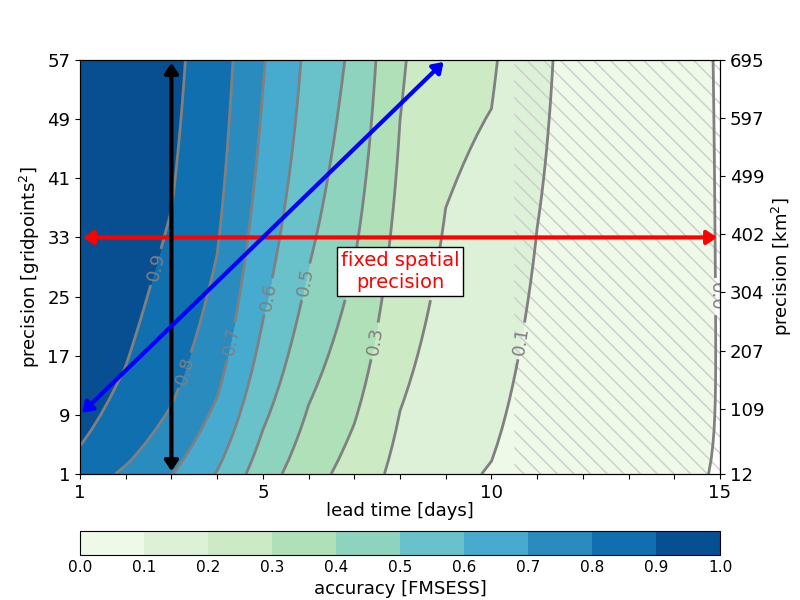
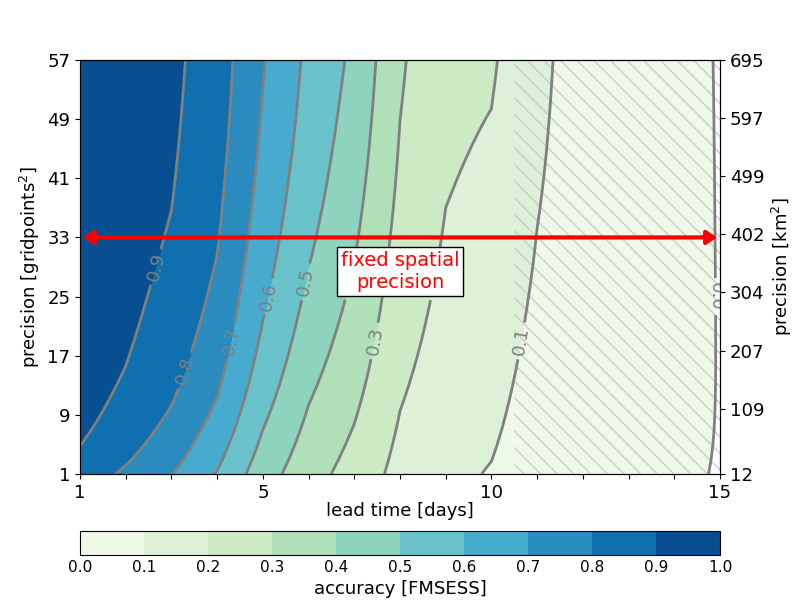
update

diff --git a/code/plot/plot-fig-05.py b/code/plot/plot-fig-05.py
@@ -80,8 +80,8 @@ fig,ax      = plt.subplots(nrows=1,ncols=1,figsize=(figsize[0],figsize[1]))
 p1 = setup_subplot(0, ax, ds1, 'a)', clevs_score, clevs_ltg, cmap_score, cmap_ltg, fontsize+2)
 
 ax.annotate("", xy=(1, 33), xytext=(15, 33),arrowprops=dict(arrowstyle="<|-|>,head_length=0.6,head_width=0.4",linewidth=3, color='red'))
-ax.annotate("", xy=(3, 1), xytext=(3, 57),arrowprops=dict(arrowstyle="<|-|>,head_length=0.6,head_width=0.4",linewidth=3, color='black'))
-ax.annotate("", xy=(1, 9), xytext=(9, 57),arrowprops=dict(arrowstyle="<|-|>,head_length=0.6,head_width=0.4",linewidth=3, color='blue'))
+#ax.annotate("", xy=(3, 1), xytext=(3, 57),arrowprops=dict(arrowstyle="<|-|>,head_length=0.6,head_width=0.4",linewidth=3, color='black'))
+#ax.annotate("", xy=(1, 9), xytext=(9, 57),arrowprops=dict(arrowstyle="<|-|>,head_length=0.6,head_width=0.4",linewidth=3, color='blue'))
 
 fig.text(0.5, 0.52, 'fixed spatial\nprecision',horizontalalignment='center',
          bbox=dict(boxstyle='square,pad=.2',facecolor='w', edgecolor='k'),color='red',fontsize=fontsize+3)
